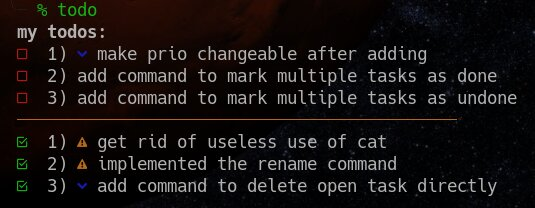
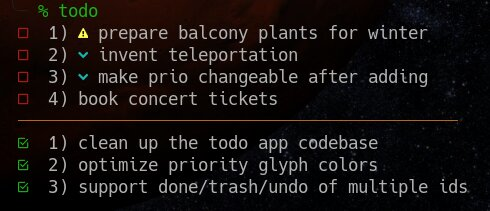
added support for multi-id operations

diff --git a/README.md b/README.md
@@ -11,13 +11,17 @@ wanting to learn coreutils.
 * `todo.zsh add some task`          adds 'some task' as open todo
 * `todo.zsh clean`                  clears completed todos off the list
 * `todo.zsh done N`                 marks the Nth todo as completed
-* `todo zsh rename N new descr.`    renames Nth open task to 'new descr.
+* `todo zsh rename N new descr.`    renames Nth open task to 'new descr.'
 * `todo.zsh trash N`                deletes the Nth open todo
 * `todo.zsh undo N`                 marks the Nth completed todo as not done
 
 You can mark a task as high priority by including `:high:` somewhere
 in the task name. Similarily you can mark a task as low priority by
 adding `:low:` somewhere in the task name.
+
+The operations `done`, `undo` and `trash` support multiple ids, separated by spaces.
+
+Shorthands for all operations exist: `todo u 1 3 4` is equal to `todo undo 1 3 4`.
 
 ## requirements
 
